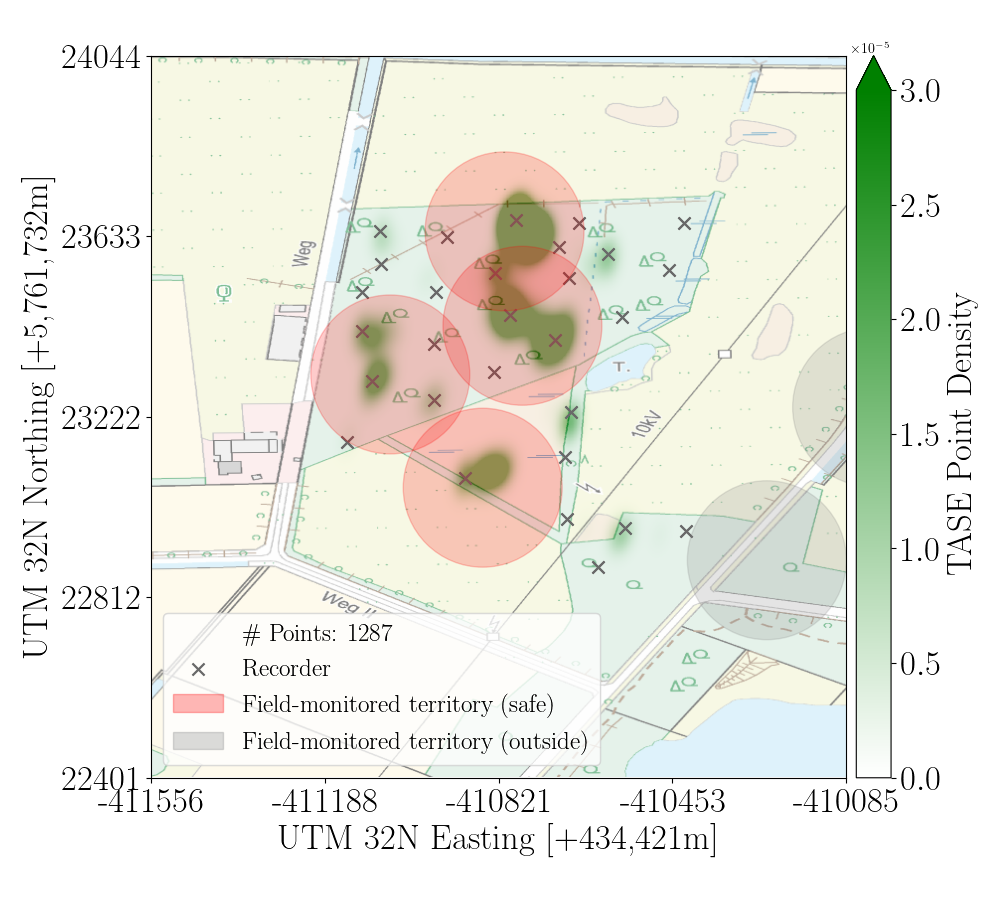
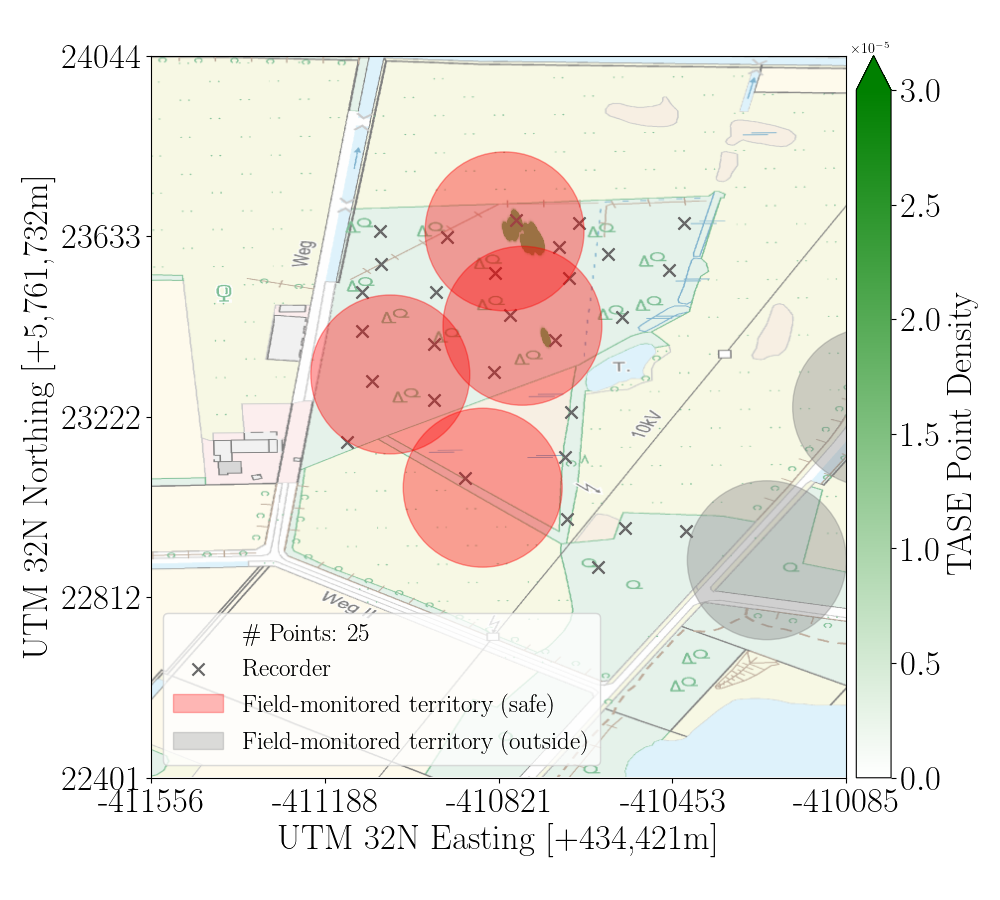
fixed xlabel issue

Changed region(s): [[0.31, 0.1556, 0.62, 0.6533], [0.589, 0.56, 0.651, 0.6222], [0.341, 0.6844, 0.403, 0.7156]]

diff --git a/main.py b/main.py
@@ -34,7 +34,7 @@ def main_minimal_usage_example():
 
     # 3. Define deployment duration (only a subset due to computation time)
     berlin_tz = pytz.timezone("Europe/Berlin")
-    dt_start = datetime.datetime(2023, 6, 3, 4, 0, 0)  # 3rd June 2023, 09:00 in Berlin (CEST)
+    dt_start = datetime.datetime(2023, 6, 3, 9, 55, 0)  # 3rd June 2023, 09:00 in Berlin (CEST)
     dt1_aware = berlin_tz.localize(dt_start)  # Make it timezone-aware
     dt_end = datetime.datetime(2023, 6, 3, 10, 0, 0)  # 3rd June 2023, 10:00 in Berlin (CEST)
     dt2_aware = berlin_tz.localize(dt_end)
@@ -88,16 +88,18 @@ def main_minimal_usage_example():
     # 7. Visualize the results
     dict_ts_centroids = extract_locations(territorial_subgraphs_all)  # for visualization, resulting in key: ts, value: centroid
 
+
     # A custom class for visualization with a background map is used that integrated wms-services
     viewer = WMSMapViewer(wms_service={"url": "http://www.wms.nrw.de/geobasis/wms_nw_dtk",
                                        "version": "1.3.0",
                                        "layername": "nw_dtk_col"})
     viewer.add_circleset_from_utm(centerset=spec.ground_truth)
     viewer.add_and_convert_pointcloudUTM_2_pointcloudPIXEL(dict_ts_centroids, zone_number=32, zone_letter='N')
+    viewer.add_circleset_from_utm(centerset=spec.ground_truth)
     viewer.add_node_locations(node_locations_utm, zone_number=32, zone_letter='N')
     viewer.display_with_pointcloud(point_size=20,font_size=27,alpha=0.5, figpath="./TASE/example/example_pointcloud.png")
-    viewer.display_with_heatmap_and_groundtruth(font_size=25, bw_method=spec.bw, heatmap_vmax=spec.heatmap_vmax,
-                                                figpath="./TASE/example/example_heatmap.png", alpha=0.5)
+    # viewer.display_with_heatmap_and_groundtruth(font_size=25, bw_method=spec.bw, heatmap_vmax=spec.heatmap_vmax,
+    #                                             figpath="./TASE/example/example_heatmap.png", alpha=0.5)
     print("Heatmap saved at: ./TASE/example/example_heatmap.pdf")
     print("Minimal Example ended successfully!")
 
@@ -107,5 +109,5 @@ if __name__ == "__main__":
     main_minimal_usage_example()
 
     # To reproduce the results of the paper, check the following function:
-    # evaluation_of_deployment_20230603()
+    evaluation_of_deployment_20230603()
 

diff --git a/viewer/WmsVisualizer.py b/viewer/WmsVisualizer.py
@@ -99,10 +99,12 @@ class WMSMapViewer:
         self.layer_name = layer_name if layer_name != None else wms_service["layername"]
 
         left, bottom, right, top = bbox if bbox is not None else (8.05214167, 52.00720153, 8.05751681, 52.01278839)
-
+        # Margin factor (e.g., 0.05 for a 5% margin)
         margin_factor = 0.05
+        # Calculating the margin for each side
         width_margin = (right - left) * margin_factor
         height_margin = (top - bottom) * margin_factor
+        # Applying the margin
         self.bbox = (
             left - width_margin,
             bottom - height_margin,
@@ -113,6 +115,7 @@ class WMSMapViewer:
         # Calculate width and height
         width = self.bbox[2] - self.bbox[0]  # max_lon - min_lon
         height = self.bbox[3] - self.bbox[1]  # max_lat - min_lat
+
         # Derive the aspect ratio as width/height
         self.aspect_ratio = width / height
 
@@ -123,7 +126,7 @@ class WMSMapViewer:
 
         # Define projections: WGS84 (lat/lon) and UTM (e.g. zone 32N for Germany)
         proj_wgs84 = Proj(proj="latlong", datum="WGS84")
-        proj_utm = Proj(proj="utm", zone=33, south=False)
+        proj_utm = Proj(proj="utm", zone=32, south=False)
         transformer = Transformer.from_proj(proj_wgs84, proj_utm, always_xy=True)
         # Convert each corner of the bounding box to UTM
         min_easting, min_northing = transformer.transform(self.bbox[0], self.bbox[1])
@@ -788,8 +791,8 @@ class WMSMapViewer:
             label.set_rotation(0)
 
         # Additional formatting
-        ax.set_xlabel("UTM 33N Easting [+584,212m]", fontsize=font_size)
-        ax.set_ylabel("UTM 33N Northing [+5,211,754m]", fontsize=font_size)
+        ax.set_xlabel("UTM 32N Easting [+434,421m]", fontsize=font_size)
+        ax.set_ylabel("UTM 32N Northing [+5,761,732m]", fontsize=font_size)
         ax.set_xlim((min(x_ticks), max(x_ticks)))
         ax.set_ylim((max(y_ticks), min(y_ticks)))
 

diff --git a/plotting/deployment/main.py b/plotting/deployment/main.py
@@ -19,8 +19,8 @@ def evaluation_of_deployment_20230603():
     # make_plots_for_problem_issue()
     # make_plots_for_formalization()
     # make_plots_for_range_analysis()
-    # make_plots_of_species_heatmaps()
+    make_plots_of_species_heatmaps()
     # make_plots_about_impact_of_timeintervals()
     # make_plots_about_impact_of_interference()
-    make_plots_about_methodological_challenges()
+    # make_plots_about_methodological_challenges()
     exit(0)
